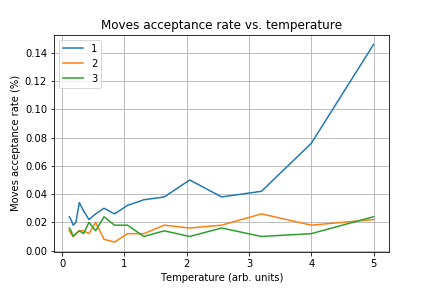
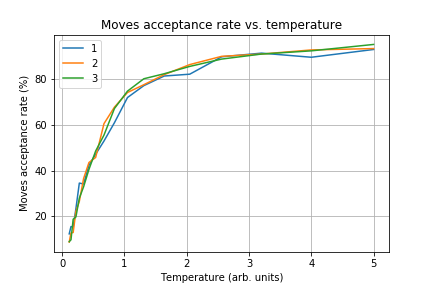
Modified prunegraft function.

Changed region(s): [[0.0, 0.125, 0.9028, 0.9062], [0.0602, 0.1562, 0.1204, 0.2188]]

diff --git a/functions.py b/functions.py
@@ -107,44 +107,28 @@ def swap(r1, r2, path):
     return path
 
 
-def prunegraft(r1 , r2, r3, path):
+def prunegraft(r1 , r2, path):
     '''
     Executes a prune and graft move.
     Parameters:
-        r1 , r2, r3: three randomly generated numbers between 0 and N-1.
+        r1 , r2: two randomly generated numbers between 0 and N-1.
         path: coordinates of the cities (array).
     Returns:
         path: updated path.
-
     '''
     i = min(r1, r2)
     j = max(r1, r2)
-    k = r3
     
     for d in range(len(path)):
-        path_l = path[d].tolist()
-        if k > i and k < j:
-            a = path_l[0:i]
-            b = path_l[j:N]
-            dummy = b+a
-            dummy = dummy[::-1]
-            for m in range(len(dummy)):
-                path_l.insert(k+m, dummy[m])
-            del path_l[j+len(dummy):N+len(dummy)]
-            del path_l[0:i]
-        if k <= i:
-            dummy = path_l[i:j]
-            for m in range(len(dummy)):
-                path_l.insert(k+m, dummy[m])
-            del path_l[i+len(dummy):j+len(dummy)]
-        if k >= j:
-            dummy = path_l[i:j]
-            for m in range(len(dummy)):
-                path_l.insert(k+m,dummy[m])
-            del path_l[i:j] 
-            
-        path[d] = np.array(path_l)
         
+        path_l = path[d].tolist()
+        path_l_a = path_l[0:i]
+        path_l_b = path_l[i:j]
+        path_l_c = path_l[j:N]
+
+        path_l = path_l_b+path_l_a+path_l_c
+        path[d] = np.array(path_l)    
+                    
     return path
  
        
@@ -181,7 +165,6 @@ def anneal_BRev_distance(Tem, path, nstep):
             if np.exp(-(new-old)/Tem[i]) >= 1:
                 old = new
                 acce += 1
-                new = length(path)
             else:
                 path=breverse(r2, r1, path) 
                 
@@ -220,7 +203,6 @@ def anneal_BRev_Metropolis(Tem, path, nstep):
             if np.exp(-(new-old)/Tem[i]) > rand.rand():
                 old = new
                 acce += 1
-                new = length(path)
             else:
                 path = breverse(r1, r2, path)
                 
@@ -259,7 +241,6 @@ def anneal_swap_Metropolis(Tem, path, nstep):
             if np.exp(-(new-old)/Tem[i]) > rand.rand():
                 old = new
                 acce += 1
-                new = length(path)
             else:
                 path = swap(r2, r1, path)   
                 
@@ -298,7 +279,6 @@ def anneal_swap_distance(Tem, path, nstep):
             if np.exp(-(new-old)/Tem[i]) >= 1:
                 old = new
                 acce += 1
-                new = length(path)
             else:
                 path = swap(r2, r1, path)
         
@@ -328,20 +308,17 @@ def anneal_PG_Metropolis(Tem, path, nstep):
             ii += 1
             r1 = int(N*rand.rand())
             r2 = int(N*rand.rand())
-            r3 = int(N*rand.rand())
-            while r1 > (N-1) and r2 > (N-1) and r3 > (N-1) : # In order to avoid IndexError
+            while r1 > (N-1) and r2 > (N-1): # In order to avoid IndexError
                 r1 = int(N*rand.rand())
                 r2 = int(N*rand.rand())
-                r3 = int(N*rand.rand())
             
-            backup = path        
-            path = prunegraft(r1, r2, r3, path)
+            backup = path
+            path = prunegraft(r1, r2, path)
             new = length(path)
             
             if np.exp(-(new-old)/Tem[i]) > rand.rand():
                 old = new
                 acce += 1
-                new = length(path)
             else:
                 path = backup
         
@@ -371,20 +348,17 @@ def anneal_PG_distance(Tem, path, nstep):
             ii += 1
             r1 = int(N*rand.rand())
             r2 = int(N*rand.rand())
-            r3 = int(N*rand.rand())
-            while r1 > (N-1) and r2 > (N-1) and r3 > (N-1) : # In order to avoid IndexError
+            while r1 > (N-1) and r2 > (N-1): # In order to avoid IndexError
                 r1 = int(N*rand.rand())
                 r2 = int(N*rand.rand())
-                r3 = int(N*rand.rand())
             
             backup = path
-            path = prunegraft(r1, r2, r3, path)
+            path = prunegraft(r1, r2, path)
             new = length(path)
             
             if np.exp(-(new-old)/Tem[i]) >= 1:
                 old = new
                 acce += 1
-                new = length(path)
             else:
                 path = backup
             
